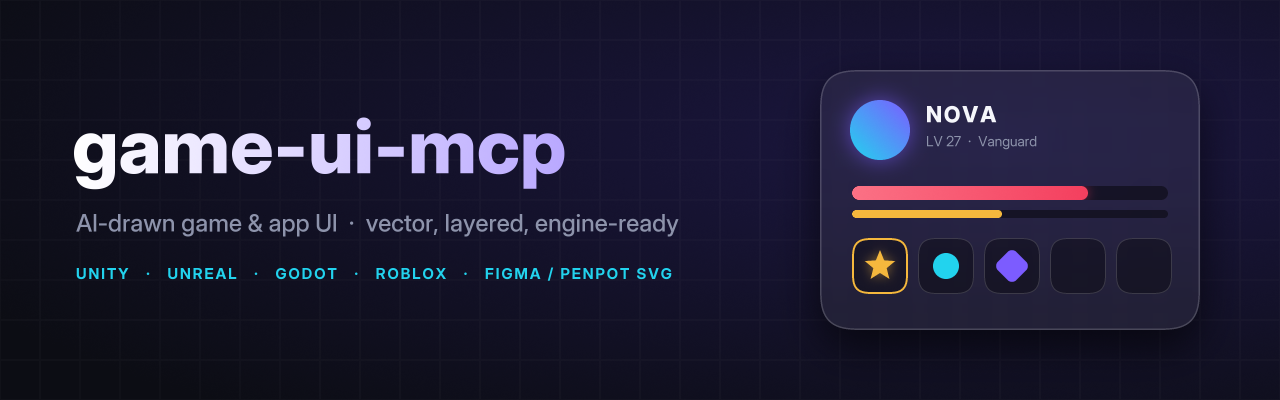
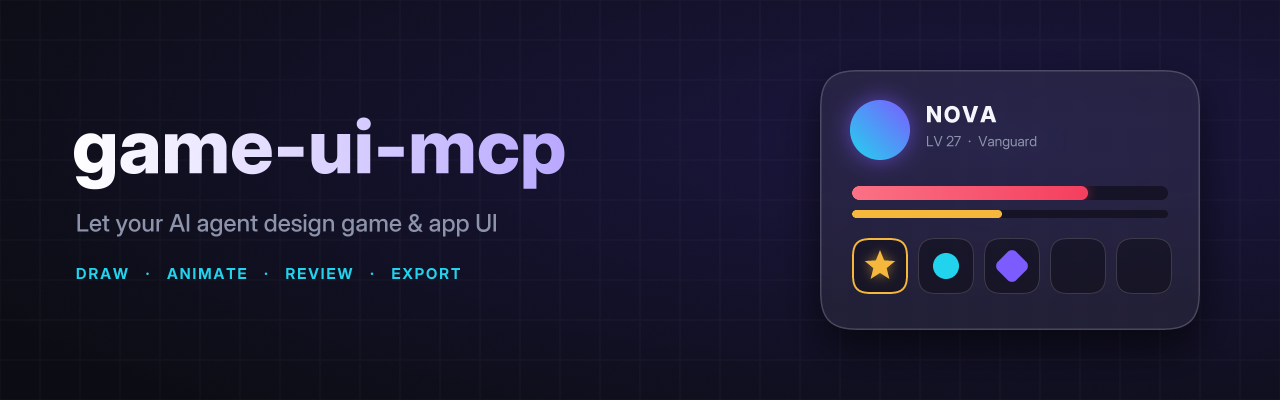
General project description in the style of popular MCP repos
Drop the engine and Figma list from the tagline, banner and package
description: 'Let your AI agent design, animate and export game and app UI.'

Changed region(s): [[0.0625, 0.54, 0.5312, 0.6], [0.125, 0.66, 0.5312, 0.72], [0.0625, 0.66, 0.0938, 0.72]]

diff --git a/examples/demo_banner.py b/examples/demo_banner.py
@@ -23,9 +23,9 @@ ui.batch(c, [
     # title block
     {"op": "add_text", "text": "game-ui-mcp", "x": 72, "y": 118, "size": 76, "weight": 800,
      "color": {"type": "linear", "angle": 0, "stops": [[0, "#ffffff"], [1, "#b9a8ff"]]}},
-    {"op": "add_text", "text": "AI-drawn game & app UI  ·  vector, layered, engine-ready", "x": 76, "y": 214,
+    {"op": "add_text", "text": "Let your AI agent design game & app UI", "x": 76, "y": 214,
      "size": 24, "weight": 500, "color": "$muted"},
-    {"op": "add_text", "text": "UNITY   ·   UNREAL   ·   GODOT   ·   ROBLOX   ·   FIGMA / PENPOT SVG", "x": 76, "y": 268,
+    {"op": "add_text", "text": "DRAW   ·   ANIMATE   ·   REVIEW   ·   EXPORT", "x": 76, "y": 268,
      "size": 15, "weight": 700, "letter_spacing": 2, "color": "$cyan"},
     # a little HUD on the right
     {"op": "add_rect", "id": "card", "x": 820, "y": 70, "width": 380, "height": 260, "radius": 28,

diff --git a/README.md b/README.md
@@ -12,7 +12,7 @@
 
 # game-ui-mcp
 
-A local [MCP](https://modelcontextprotocol.io) server that lets an AI (Claude, Cursor, VS Code Copilot, any MCP client) **draw, animate and ship game and app UI**: panels, buttons, HUDs, gauges, menus, icons and whole screens, ready for Unity, Unreal, Godot, Roblox, Figma and Penpot.
+A local [MCP](https://modelcontextprotocol.io) server that lets an AI (Claude, Cursor, VS Code Copilot, any MCP client) **design, animate and export game and app UI**: panels, buttons, HUDs, gauges, menus, icons and whole screens, delivered as engine-ready sprites, layers and editable vector files.
 
 - **No image model, no internet.** The AI calls shape, text, style and keyframe tools; the server turns them into clean, deterministic vector-quality art.
 - **It checks its own work.** `preview` shows the AI what it drew, `review_canvas` finds clipped shadows, low contrast, overflowing or missing-glyph text, blurry half-pixel edges.
@@ -69,7 +69,7 @@ Without a working CUDA device the `[gpu]` build quietly falls back to the CPU wi
 - "Make a rev gauge for a racing game with a needle animation, and give me the parts as separate layers in `D:\Game\UI`."
 - "Translate this main menu to Arabic and Japanese and check for overflowing text."
 - "Take the palette from this screenshot and build a scoreboard in the same style, light and dark."
-- "Design an iOS app icon and export the @1x/@2x/@3x set plus an SVG for Figma."
+- "Design an iOS app icon and export the @1x/@2x/@3x set plus an editable SVG."
 
 ## What it can do
 

diff --git a/README.tr.md b/README.tr.md
@@ -4,7 +4,7 @@
 
 # game-ui-mcp
 
-Bir AI'ın (Claude, Cursor, VS Code Copilot... MCP destekleyen her istemci) **oyun ve uygulama arayüzü çizmesini, canlandırmasını ve Unity / Unreal / Godot / Roblox'a teslim etmesini** sağlayan yerel MCP server.
+Bir AI'ın (Claude, Cursor, VS Code Copilot... MCP destekleyen her istemci) **oyun ve uygulama arayüzü tasarlamasını, canlandırmasını ve dışa aktarmasını** sağlayan yerel MCP server: oyun motoruna hazır sprite'lar, katmanlar ve düzenlenebilir vektör dosyalar.
 
 - Görsel üreten bir model yok, internete çıkmıyor: AI şekil, yazı, stil ve keyframe tool'larını çağırır, server bunu temiz PNG'ye çevirir.
 - AI çizdiğine bakar, `review_canvas` ile hatalarını bulur (taşan yazı, düşük kontrast, eksik harf), düzeltir.
